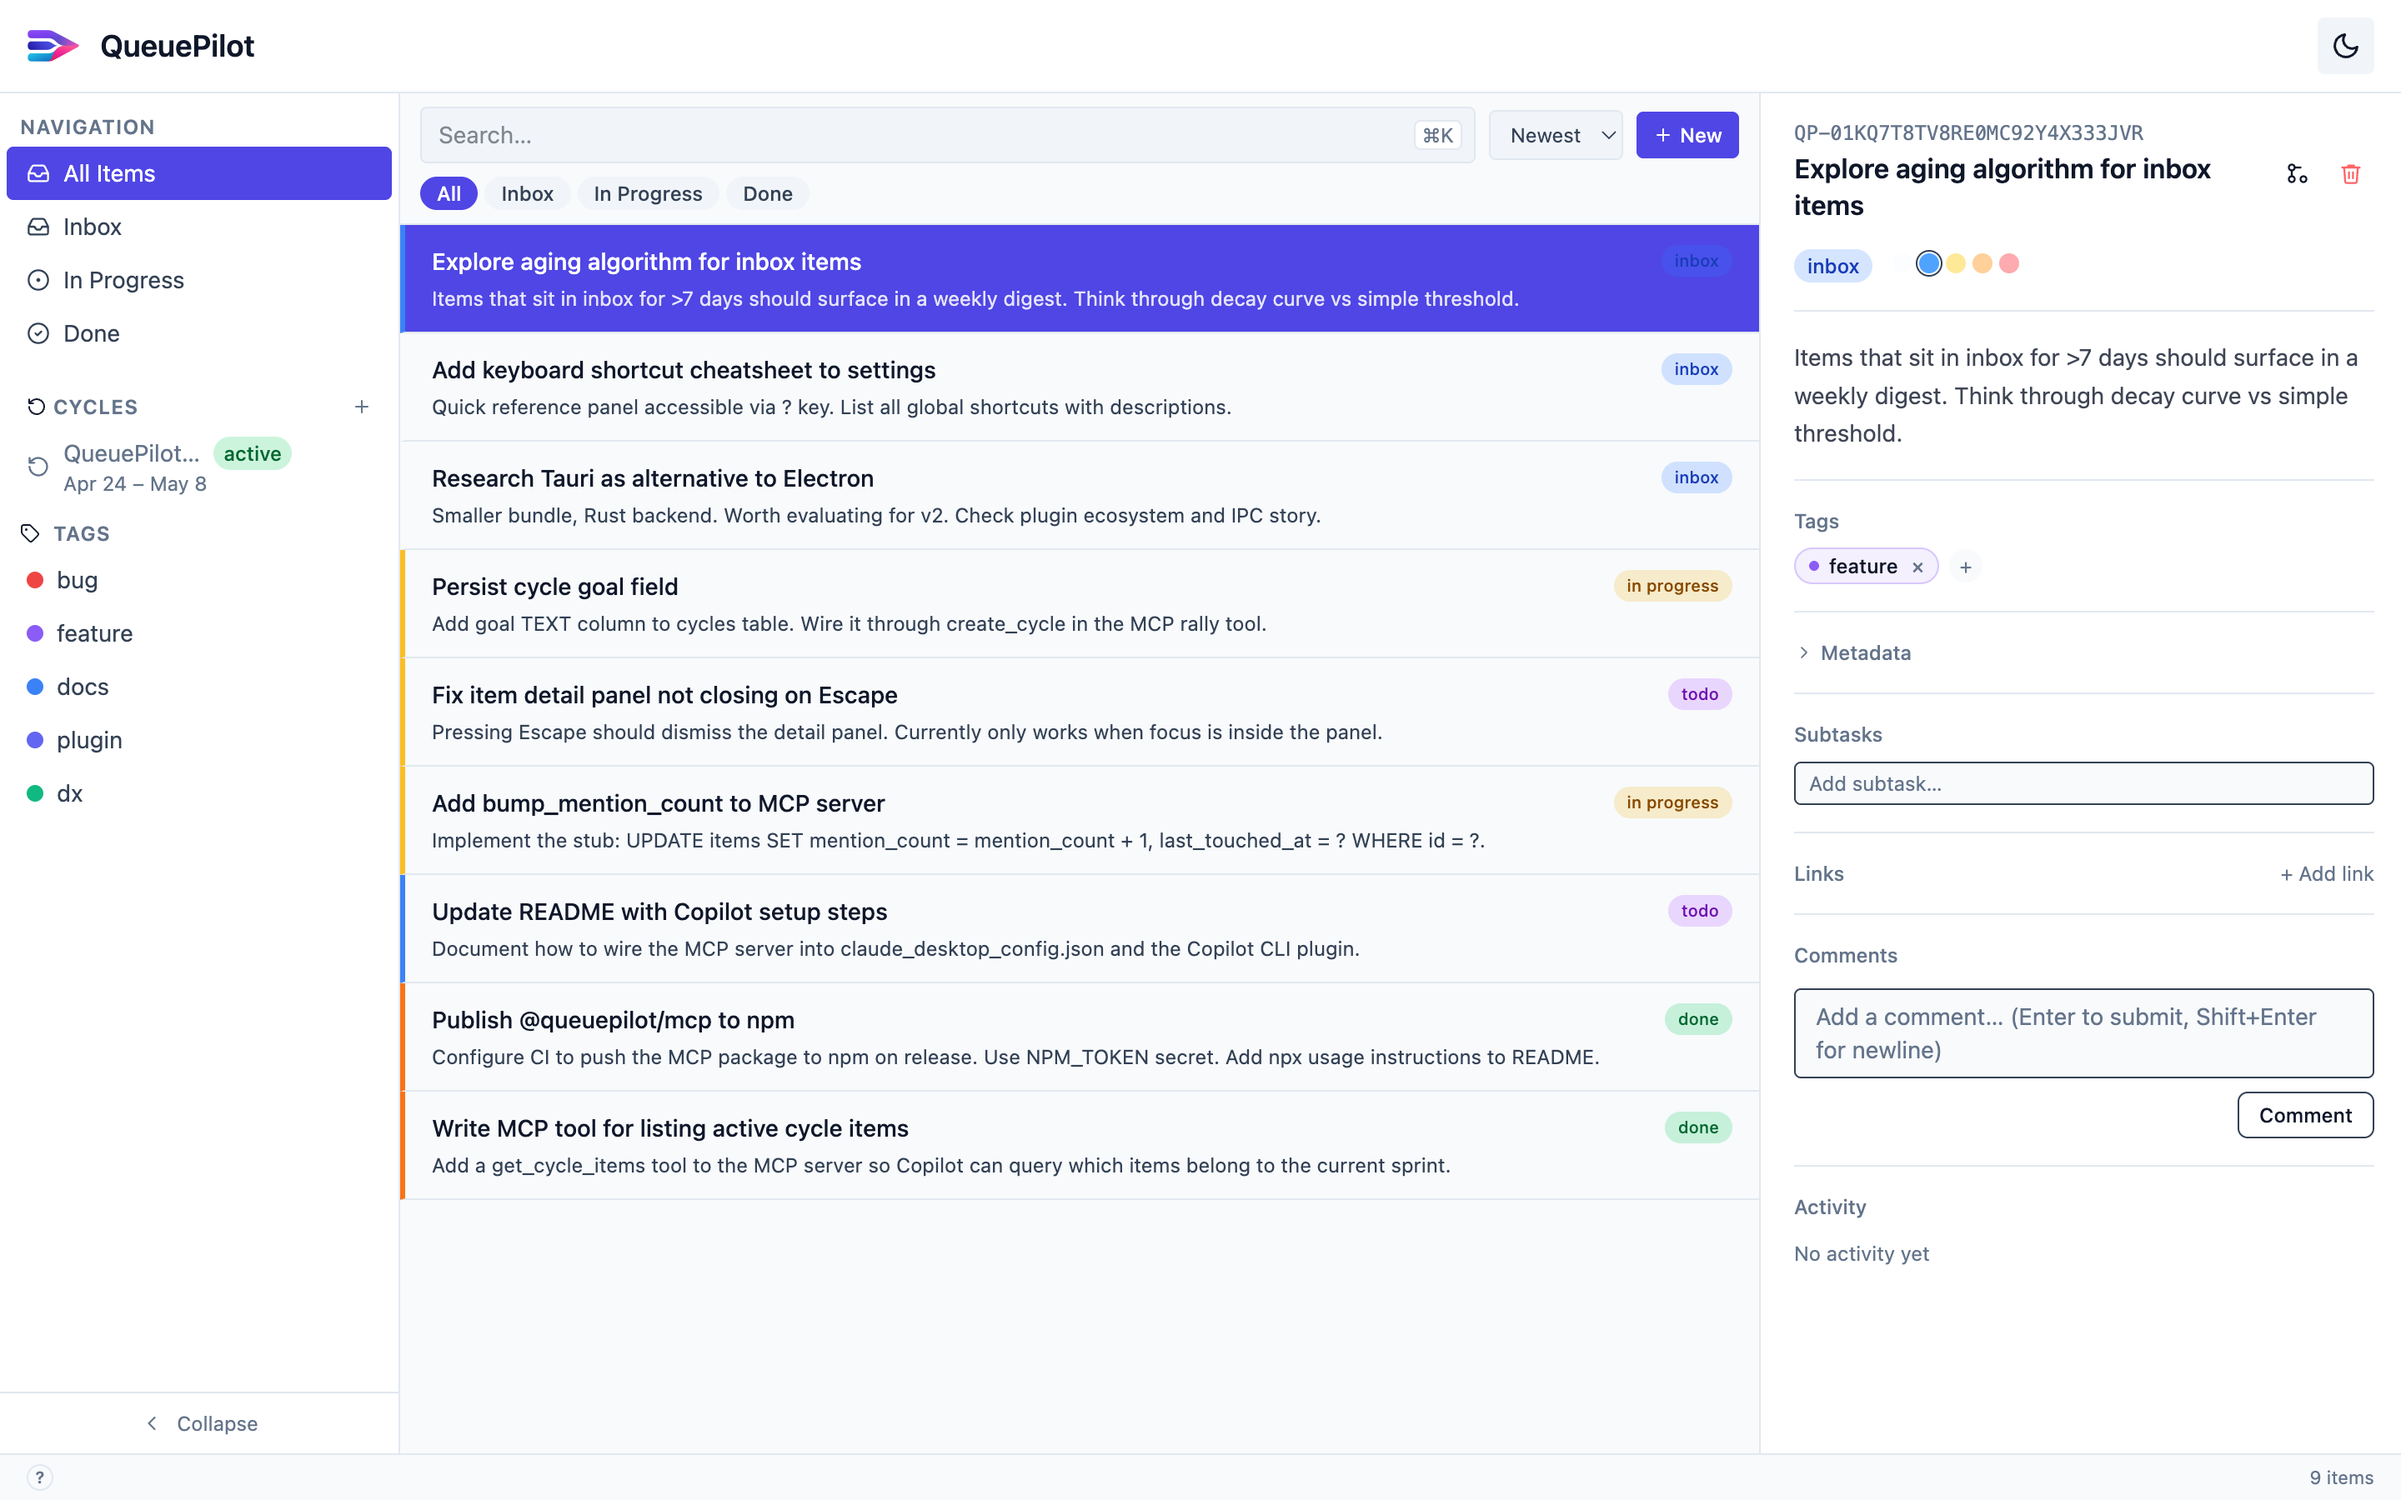
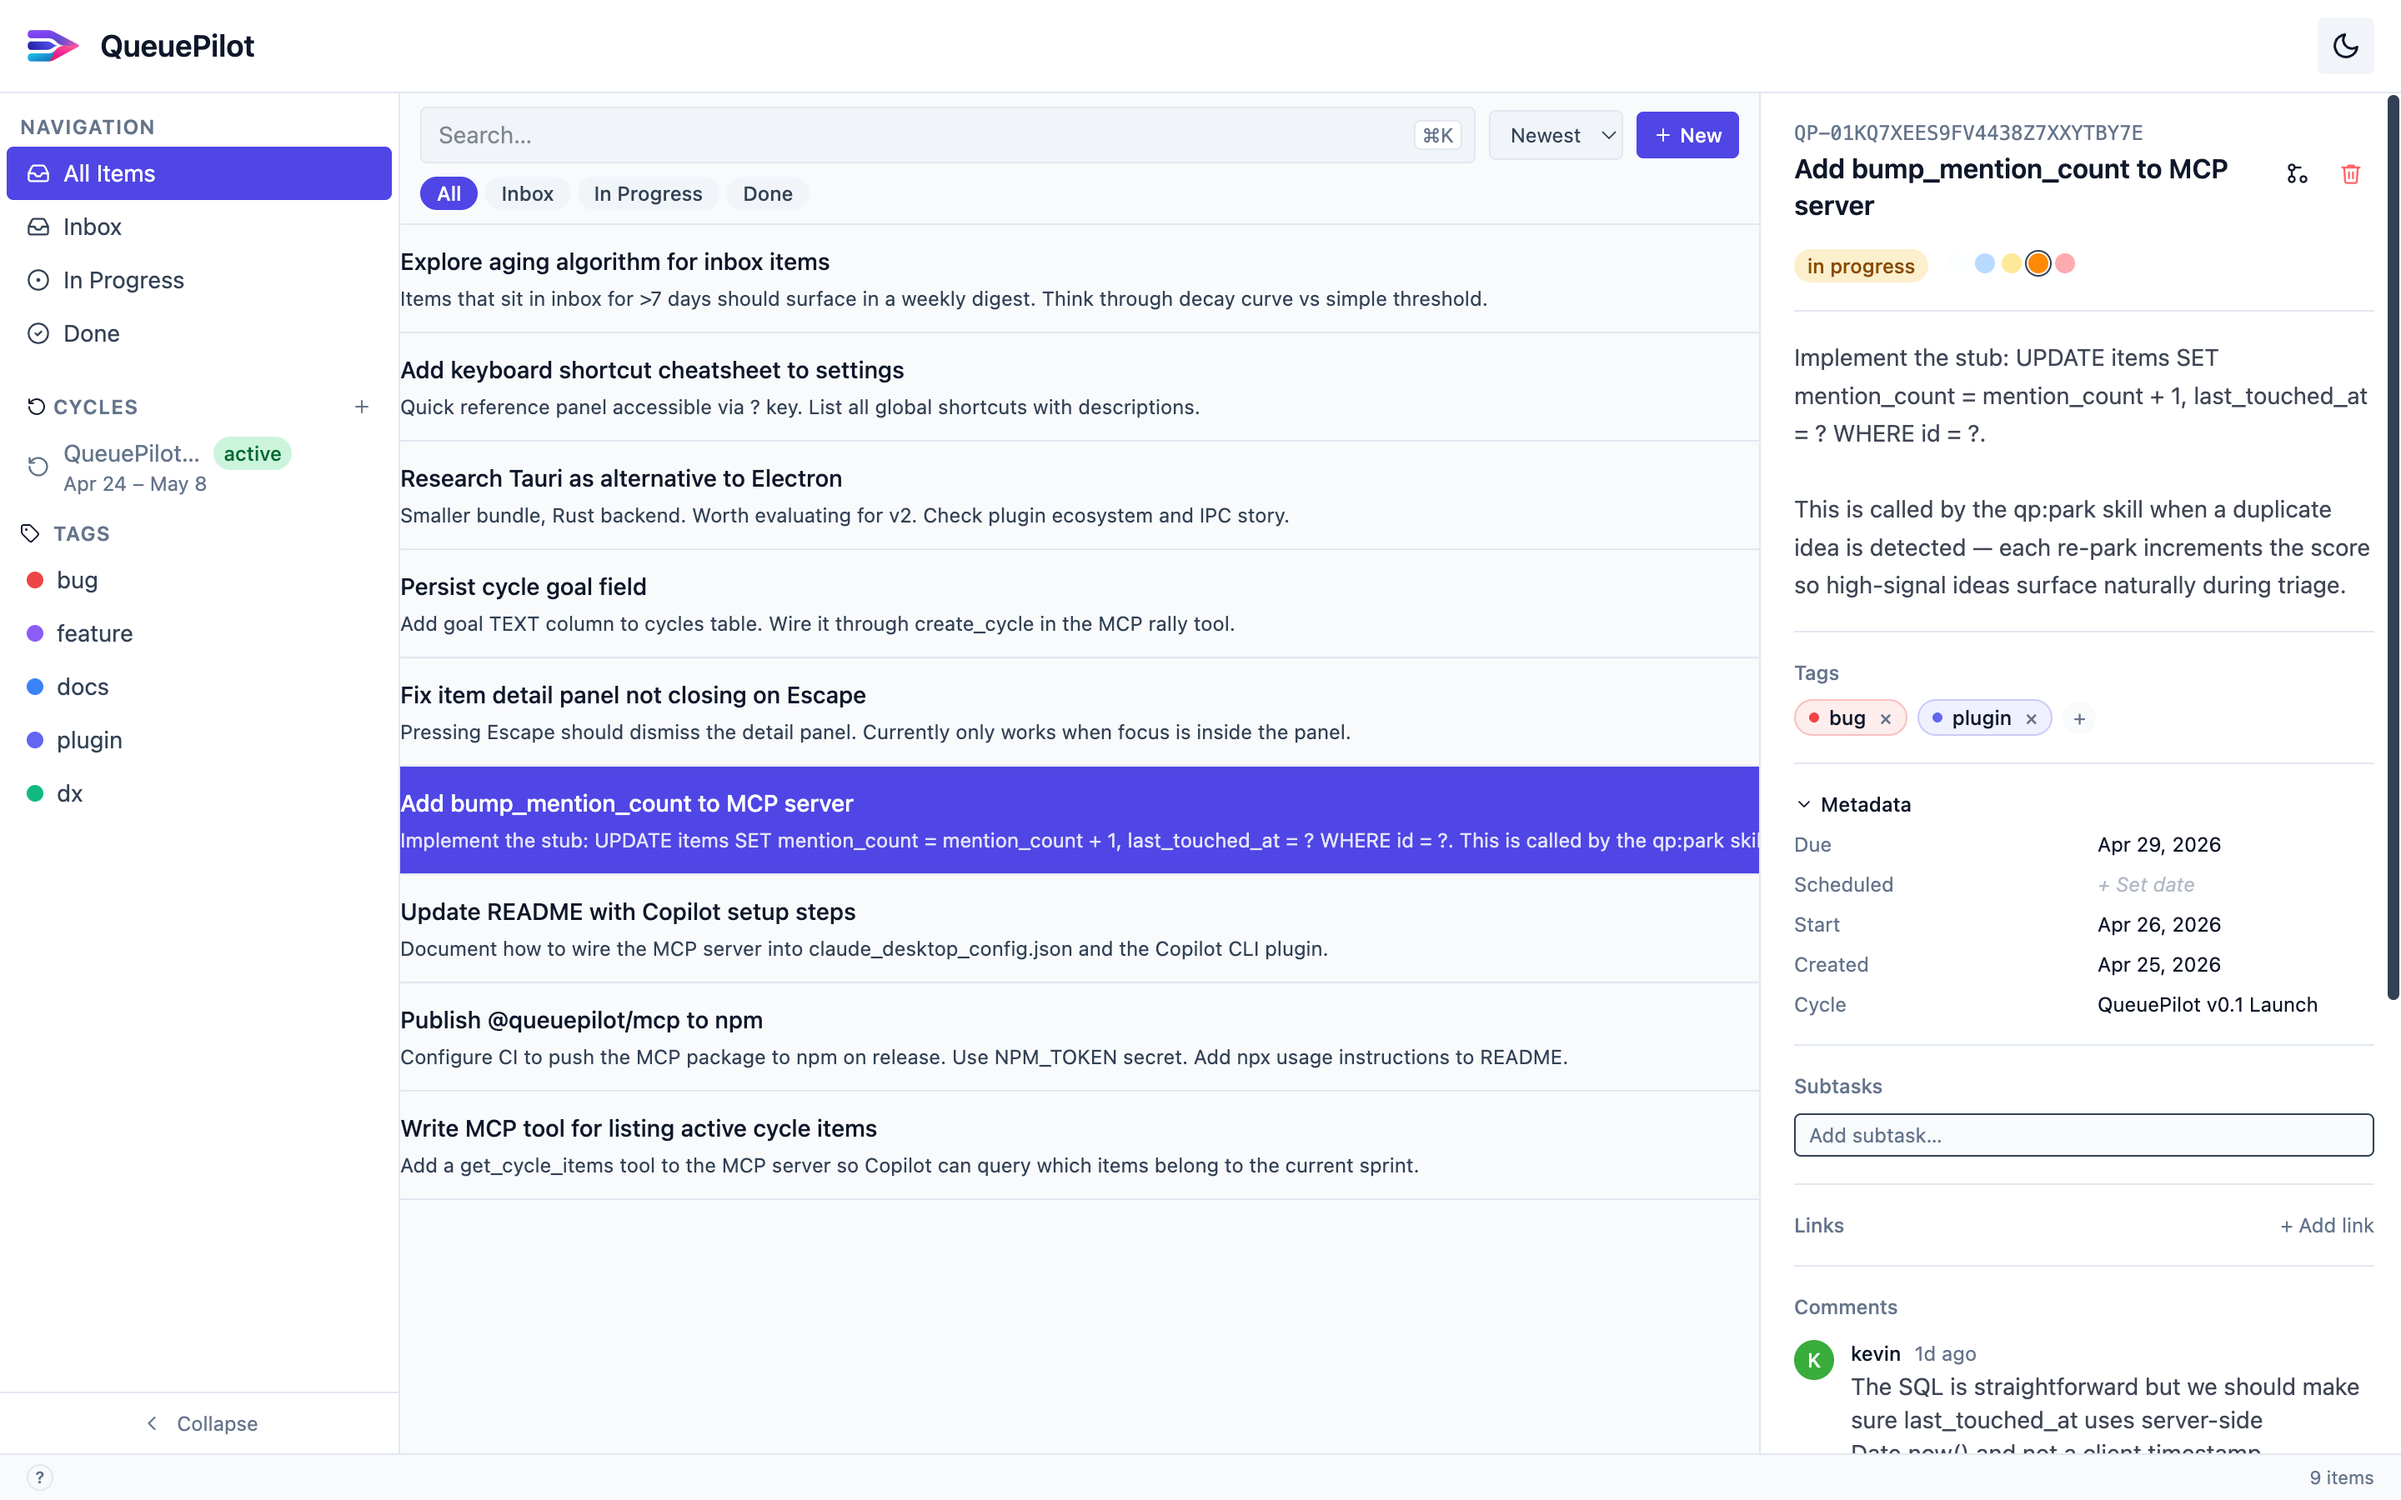
docs: update screenshot with rich item (metadata, comments, activity visible)

diff --git a/apps/desktop/src/dev-server.ts b/apps/desktop/src/dev-server.ts
@@ -12,7 +12,7 @@ import { cors } from 'hono/cors'
 import { migrate } from 'drizzle-orm/better-sqlite3/migrator'
 import path from 'node:path'
 import { ulid } from 'ulid'
-import { createDb, items, tags, cycles, itemTags } from '@queuepilot/core/schema'
+import { createDb, items, tags, cycles, itemTags, comments, itemEvents } from '@queuepilot/core/schema'
 import { createApp } from './main/api/index'
 
 const PORT = 3000
@@ -83,11 +83,12 @@ db.insert(items).values([
   {
     id: itemIds[2],
     title: 'Add bump_mention_count to MCP server',
-    body: 'Implement the stub: UPDATE items SET mention_count = mention_count + 1, last_touched_at = ? WHERE id = ?.',
+    body: 'Implement the stub: UPDATE items SET mention_count = mention_count + 1, last_touched_at = ? WHERE id = ?.\n\nThis is called by the qp:park skill when a duplicate idea is detected — each re-park increments the score so high-signal ideas surface naturally during triage.',
     status: 'in_progress',
-    priority: 2,
+    priority: 3,
     cycle_id: cycleId,
     due_at: now + 2 * DAY,
+    start_at: now - DAY,
     created_at: now - 2 * DAY,
     updated_at: now,
   },
@@ -163,6 +164,60 @@ db.insert(itemTags).values([
   { item_id: itemIds[6], tag_id: tagFeature },
   { item_id: itemIds[7], tag_id: tagFeature },
   { item_id: itemIds[8], tag_id: tagDx      },
+]).run()
+
+db.insert(comments).values([
+  {
+    id: ulid(),
+    item_id: itemIds[2],
+    body: 'The SQL is straightforward but we should make sure last_touched_at uses server-side Date.now() and not a client timestamp.',
+    author: 'kevin',
+    created_at: now - DAY,
+    updated_at: now - DAY,
+  },
+  {
+    id: ulid(),
+    item_id: itemIds[2],
+    body: 'Confirmed — qp:park calls this on every re-park. Keeping it atomic with a single UPDATE statement.',
+    author: 'copilot',
+    created_at: now - 6 * 3600_000,
+    updated_at: now - 6 * 3600_000,
+  },
+  {
+    id: ulid(),
+    item_id: itemIds[2],
+    body: 'Shipped in dispatch.ts. Tests passing on main.',
+    author: 'kevin',
+    created_at: now - 3600_000,
+    updated_at: now - 3600_000,
+  },
+]).run()
+
+db.insert(itemEvents).values([
+  {
+    id: ulid(),
+    item_id: itemIds[2],
+    kind: 'status_changed',
+    payload: JSON.stringify({ from: 'todo', to: 'in_progress' }),
+    actor: 'kevin',
+    created_at: now - DAY,
+  },
+  {
+    id: ulid(),
+    item_id: itemIds[2],
+    kind: 'priority_changed',
+    payload: JSON.stringify({ from: 2, to: 3 }),
+    actor: 'copilot',
+    created_at: now - 6 * 3600_000,
+  },
+  {
+    id: ulid(),
+    item_id: itemIds[2],
+    kind: 'cycle_assigned',
+    payload: JSON.stringify({ cycle_id: cycleId }),
+    actor: 'kevin',
+    created_at: now - 2 * DAY,
+  },
 ]).run()
 
 // ---------------------------------------------------------------------------
